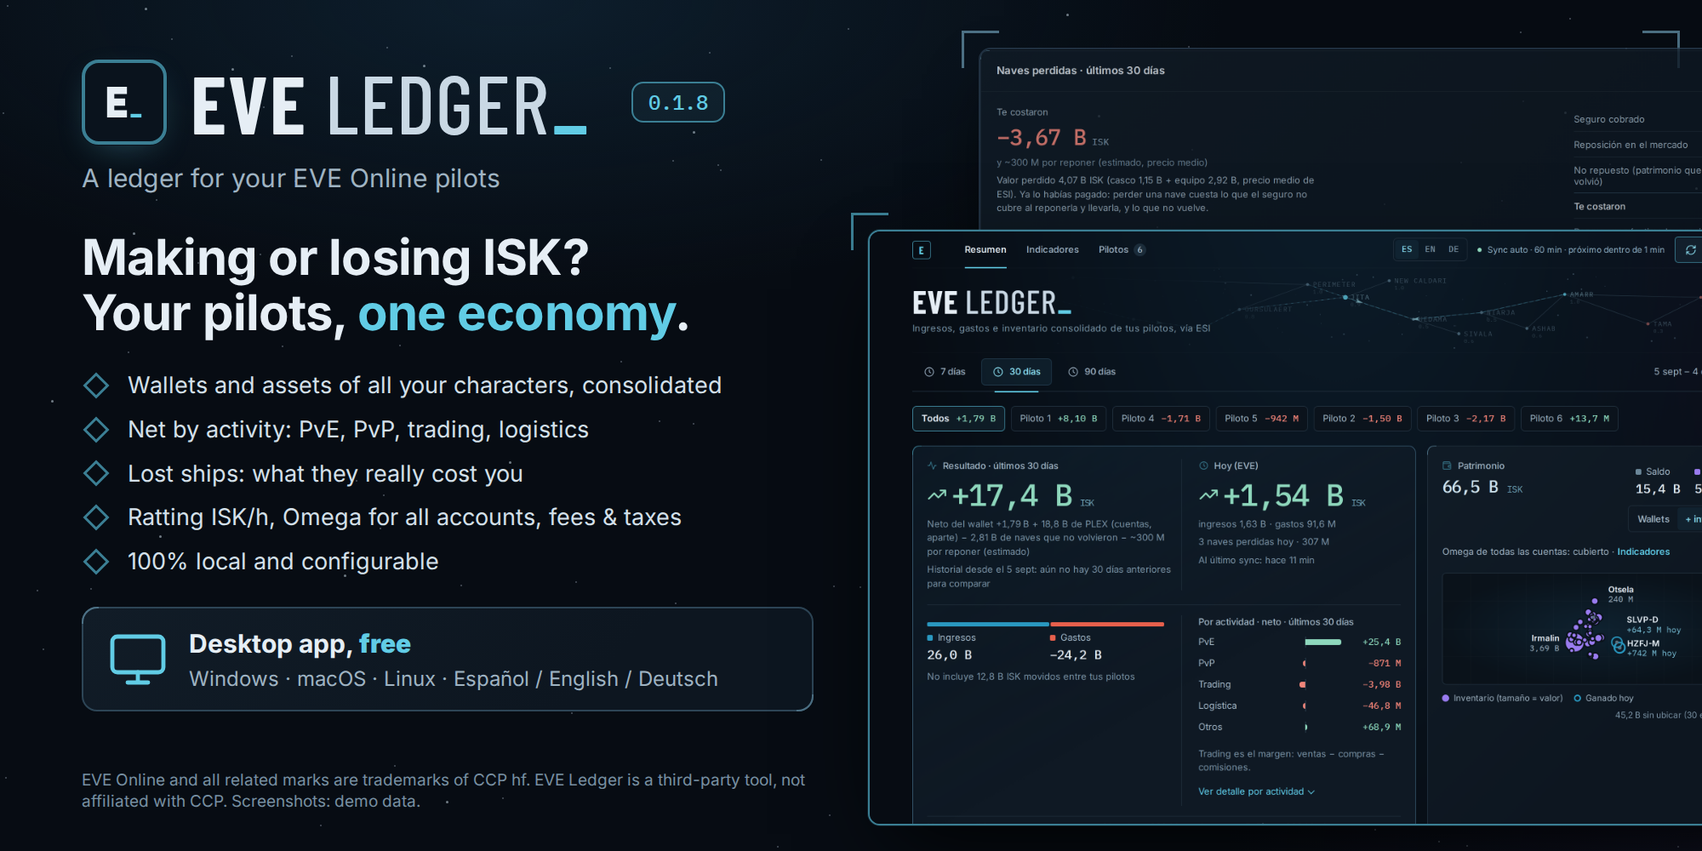
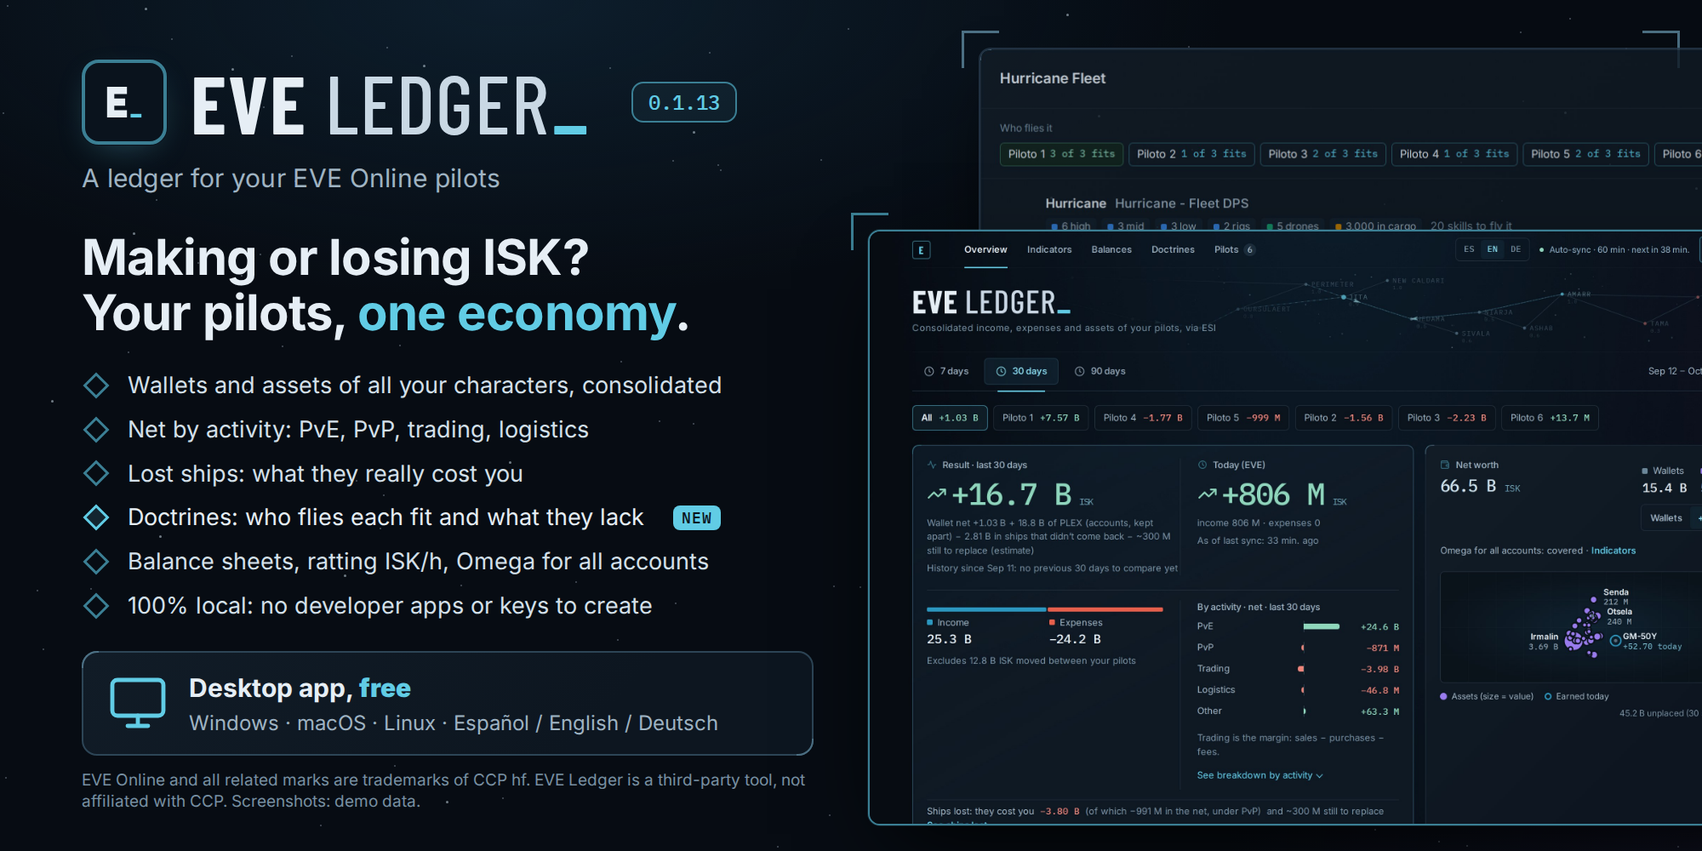
Brochure nuevo para la comunidad: portada, Doctrinas e Indicadores y Balances
Tres piezas de 2000 × 1000 px en español e inglés con capturas de la 0.1.13
(datos de demostración): la portada actualizada con Doctrinas y Balances, una
pieza de Doctrinas con la columna de iconos de «Para volarlo ya» y otra de
Indicadores y Balances. Plantilla con ?slide=, capturas en JPEG y README con
cómo regenerarlo.

Claude-Session: https://claude.ai/code/session_01M8WtF2MrXeJVUAxf2xqCAQ

diff --git a/docs/brochure/brochure.html b/docs/brochure/brochure.html
@@ -2,7 +2,7 @@
 <html lang="es">
 <head>
 <meta charset="utf-8" />
-<title>EVE Ledger · brochure</title>
+<title>EVE Ledger brochure</title>
 <style>
 @font-face { font-family: 'Inter'; src: url('../../apps/web/node_modules/@fontsource-variable/inter/files/inter-latin-wght-normal.woff2') format('woff2'); font-weight: 100 900; }
 @font-face { font-family: 'Barlow Condensed'; src: url('../../apps/web/node_modules/@fontsource/barlow-condensed/files/barlow-condensed-latin-700-normal.woff2') format('woff2'); font-weight: 700; }
@@ -52,18 +52,25 @@ li::before { content: ''; flex: none; width: 16px; height: 16px; border: 3px sol
 .box .t2 { font: 500 27px var(--mono); color: var(--cyan); margin-top: 2px; }
 .box .t3 { font-size: 24px; color: var(--text-secondary); margin-top: 4px; }
 .foot { position: absolute; left: 96px; width: 880px; bottom: 26px; font-size: 19px; line-height: 1.35; color: var(--text-muted); }
-/* capturas */
+/* capturas: cada pieza coloca las suyas (back = detrás, front = delante) */
 .shots { position: absolute; left: 1000px; top: 0; right: 0; bottom: 0; }
 .shot { position: absolute; border: 2px solid #2d4556; border-radius: 14px; overflow: hidden; background: var(--panel); box-shadow: 0 30px 80px -30px #000; }
 .shot img { display: block; width: 100%; }
-.shot.back { left: 150px; top: 56px; width: 1000px; height: 600px; opacity: .8; border-color: #26384a; }
-.shot.back img { width: 1000px; }
+.shot.back { left: 150px; top: 56px; width: 1000px; height: 600px; opacity: .82; border-color: #26384a; }
 .shot.front { left: 20px; top: 270px; width: 1100px; height: 700px; border-color: #3b7f94; box-shadow: 0 0 0 1px #61cce522, 0 40px 100px -30px #000; }
-.shot.front img { width: 1100px; }
 .bracket { position: absolute; width: 44px; height: 44px; border: 3px solid var(--corner); }
 .bracket.tl { left: 130px; top: 36px; border-right: 0; border-bottom: 0; }
 .bracket.tr { right: 26px; top: 36px; border-left: 0; border-bottom: 0; }
 .bracket.fl { left: 0; top: 250px; border-right: 0; border-bottom: 0; border-color: var(--cyan-dim); }
+/* Doctrinas: la franja «Con qué se paga» arriba y la doctrina grande delante */
+body[data-slide='doctrinas'] .shot.back { left: 120px; top: 64px; width: 860px; height: auto; opacity: .9; }
+body[data-slide='doctrinas'] .shot.front { left: 20px; top: 250px; width: 960px; height: 730px; }
+body[data-slide='doctrinas'] .bracket.fl { top: 230px; }
+body[data-slide='doctrinas'] .bracket.tl { left: 100px; top: 44px; }
+/* La novedad: chip junto a la viñeta */
+.new { margin-left: 14px; font: 600 18px var(--mono); letter-spacing: .06em; color: #0a131d; background: var(--cyan); border-radius: 8px; padding: 3px 10px; }
+li.hl { color: var(--text); }
+li.hl::before { border-color: var(--cyan); background: #61cce522; }
 </style>
 </head>
 <body>
@@ -87,39 +94,83 @@ li::before { content: ''; flex: none; width: 16px; height: 16px; border: 3px sol
 </div>
 <div class="shots">
   <i class="bracket tl"></i><i class="bracket tr"></i>
-  <div class="shot back"><img src="shot-losses.png" /></div>
+  <div class="shot back"><img data-shot="back" alt="" /></div>
   <i class="bracket fl"></i>
-  <div class="shot front"><img src="shot-dashboard.png" /></div>
+  <div class="shot front"><img data-shot="front" alt="" /></div>
 </div>
 <p class="foot" data-t="foot"></p>
 <script>
+// Tres piezas: ?slide=portada|doctrinas|indicadores, ?lang=es|en y ?v= (versión)
+const NEW = { es: 'NUEVO', en: 'NEW' };
 const T = {
+  portada: {
+    shots: ['doctrine', 'dashboard'],
+    es: {
+      tagline: 'Contabilidad de tus pilotos de EVE Online',
+      headline: '¿Ganas o pierdes ISK?<br>Tus pilotos, <em>una economía</em>.',
+      bullets: ['Wallets e inventario de todos tus personajes, consolidados', 'Neto por actividad: PvE, PvP, trading y logística', 'Naves perdidas: lo que te costaron de verdad', ['Doctrinas: quién vuela cada fit y cuánto le falta'], 'Balances, ISK/h de ratting y Omega de todas las cuentas', '100 % local: sin crear apps en developers ni claves'],
+    },
+    en: {
+      tagline: 'A ledger for your EVE Online pilots',
+      headline: 'Making or losing ISK?<br>Your pilots, <em>one economy</em>.',
+      bullets: ['Wallets and assets of all your characters, consolidated', 'Net by activity: PvE, PvP, trading, logistics', 'Lost ships: what they really cost you', ['Doctrines: who flies each fit and what they lack'], 'Balance sheets, ratting ISK/h, Omega for all accounts', '100% local: no developer apps or keys to create'],
+    },
+  },
+  doctrinas: {
+    shots: ['funds', 'doctrine'],
+    es: {
+      tagline: 'Doctrinas · nuevo en EVE Ledger',
+      headline: '¿Quién puede volar<br>la <em>doctrina</em>?',
+      bullets: ['Pega el fit EFT y el plan de skills de EVEMon', 'Quién lo vuela ya y cuánto entrenamiento falta', 'Omega o Alfa, según las skills del fit', 'Coste en Jita e inyectores para volarlo ya', 'ISK del wallet, con y sin el Omega reservado'],
+    },
+    en: {
+      tagline: 'Doctrines · new in EVE Ledger',
+      headline: 'Who can fly<br>the <em>doctrine</em>?',
+      bullets: ['Paste the EFT fit and the EVEMon skill plan', 'Who can fly it now and how much training is left', 'Omega or Alpha, from the fit’s skills', 'Jita cost and injectors to fly it now', 'Wallet ISK, with and without Omega set aside'],
+    },
+  },
+  indicadores: {
+    shots: ['balances', 'indicators'],
+    es: {
+      tagline: 'Indicadores y Balances',
+      headline: 'Tu economía,<br><em>como un libro</em>.',
+      bullets: ['ISK/h de ratting por piloto y por sistema', 'Omega de todas las cuentas: ¿tu ritmo lo paga?', 'Balance general y estado de resultados', 'Comisiones, impuestos y lo que cuestan tus pérdidas', 'Tortas y tablas que se ordenan'],
+    },
+    en: {
+      tagline: 'Indicators and Balances',
+      headline: 'Your economy,<br><em>as a ledger</em>.',
+      bullets: ['Ratting ISK/h by pilot and by system', 'Omega for all accounts: does your pace pay for it?', 'Balance sheet and income statement', 'Fees, taxes and what your losses cost', 'Pie charts and sortable tables'],
+    },
+  },
+};
+const COMMON = {
   es: {
-    tagline: 'Contabilidad de tus pilotos de EVE Online',
-    headline: '¿Ganas o pierdes ISK?<br>Tus pilotos, <em>una economía</em>.',
-    bullets: ['Wallets e inventario de todos tus personajes, consolidados', 'Neto por actividad: PvE, PvP, trading y logística', 'Naves perdidas: lo que te costaron de verdad', 'ISK/h de ratting, Omega de todas las cuentas y comisiones', '100 % local y parametrizable'],
     box1: 'App de escritorio, <b>gratis</b>',
     box3: 'Windows · macOS · Linux · Español / English / Deutsch',
     foot: 'EVE Online y todo lo relacionado son marcas de CCP hf. EVE Ledger es una herramienta de terceros, no afiliada a CCP. Capturas con datos de demostración.',
   },
   en: {
-    tagline: 'A ledger for your EVE Online pilots',
-    headline: 'Making or losing ISK?<br>Your pilots, <em>one economy</em>.',
-    bullets: ['Wallets and assets of all your characters, consolidated', 'Net by activity: PvE, PvP, trading, logistics', 'Lost ships: what they really cost you', 'Ratting ISK/h, Omega for all accounts, fees & taxes', '100% local and configurable'],
     box1: 'Desktop app, <b>free</b>',
     box3: 'Windows · macOS · Linux · Español / English / Deutsch',
     foot: 'EVE Online and all related marks are trademarks of CCP hf. EVE Ledger is a third-party tool, not affiliated with CCP. Screenshots: demo data.',
   },
 };
 const q = new URLSearchParams(location.search);
-const t = T[q.get('lang') || 'es'];
-document.documentElement.lang = q.get('lang') || 'es';
-document.querySelector('[data-version]').textContent = q.get('v') || '0.1.8';
+const lang = q.get('lang') === 'en' ? 'en' : 'es';
+const slide = T[q.get('slide')] ? q.get('slide') : 'portada';
+const t = { ...T[slide][lang], ...COMMON[lang] };
+document.documentElement.lang = lang;
+document.body.dataset.slide = slide;
+document.querySelector('[data-version]').textContent = q.get('v') || '0.1.13';
 for (const el of document.querySelectorAll('[data-t]')) {
   const k = el.dataset.t;
-  if (k === 'bullets') el.innerHTML = t.bullets.map((b) => '<li>' + b + '</li>').join('');
+  // Una viñeta entre corchetes es la novedad: chip «NUEVO»
+  if (k === 'bullets') el.innerHTML = t.bullets.map((b) => (Array.isArray(b) ? '<li class="hl">' + b[0] + '<span class="new">' + NEW[lang] + '</span></li>' : '<li>' + b + '</li>')).join('');
   else el.innerHTML = t[k];
 }
+const [back, front] = T[slide].shots;
+document.querySelector('[data-shot=back]').src = 'shot-' + back + '-' + lang + '.jpg';
+document.querySelector('[data-shot=front]').src = 'shot-' + front + '-' + lang + '.jpg';
 // Estrellas deterministas
 let s = 7; const rnd = () => (s = (s * 16807) % 2147483647) / 2147483647;
 const stars = document.getElementById('stars');

diff --git a/CLAUDE.md b/CLAUDE.md
@@ -7,7 +7,7 @@ Proyecto personal, corre solo en localhost. Responder siempre en español neutro
 - `apps/api`: Bun + Elysia + Drizzle + SQLite (`bun:sqlite`)
 - `apps/web`: Astro (SSR con `@astrojs/node`), lee la API vía `API_URL`. Tema oscuro tipo HUD en `src/styles/theme.css`. Franja de marca compacta en `Base.astro` (118 px, 92 px en móvil): «EVE LEDGER_» sobre el mapa estelar animado (`src/components/StarMap.astro`, decorativo); no debe empujar el neto fuera de la primera pantalla. Fuentes autoalojadas con `@fontsource` (Inter para la interfaz, IBM Plex Mono solo para cifras y datos, Barlow Condensed solo para el logotipo). Colores de datos: ingresos `#2a98c0`, gastos `#e8604c`, inventario `#9a7cf0`, validados sobre el fondo de los paneles; no reutilizarlos como colores de interfaz.
 - Prompt autocontenido con el design system (tokens, tipografía, componentes, cifras, estados, voz y prohibiciones) para diseñar pantallas nuevas fuera del repo: `docs/design-system-prompt.md` (en inglés, `docs/design-system-prompt.en.md`); actualizarlo si cambian `theme.css` o estas reglas.
-- Contexto de producto para el diseño en `PRODUCT.md` (generado con `/impeccable init`: usuario, uso mientras juega y en revisión, «¿gano o pierdo ISK?» como pregunta principal, pilotos PvE + PvP). Live mode configurado en `.impeccable/live/config.json`.
+- Brochure para la comunidad en `docs/brochure` (tres piezas ES/EN: portada, Doctrinas, Indicadores y Balances; cómo regenerarlo en su README). Contexto de producto para el diseño en `PRODUCT.md` (generado con `/impeccable init`: usuario, uso mientras juega y en revisión, «¿gano o pierdo ISK?» como pregunta principal, pilotos PvE + PvP). Live mode configurado en `.impeccable/live/config.json`.
 - Diseño: skill **impeccable** instalado en `.claude/skills/impeccable` (versión y origen en `UPSTREAM`; agentes en `.claude/agents/`). Sin sus hooks automáticos: tras cambiar UI, correr `.claude/skills/impeccable/scripts/impeccable detect --json <archivos>`. Reglas adoptadas: sin eyebrows sobre títulos ni números de sección, el cian solo para acciones/estado, el signo del neto en verde/rojo (`--positive`/`--critical`) y avisos en ámbar (`--warning`). Movimiento solo en dos sitios: el pulso de los sistemas con ganancias hoy en el mapa «tu New Eden» (el único anillo pulsante de la interfaz: nada decorativo debe imitar un dato) y las rutas y couriers del mapa estelar de la franja de marca, sin anillo, sin nombres brillantes y con el cursor «_» fijo (todo desactivado con `prefers-reduced-motion`). Trampa de Astro: los estilos con ámbito de una página no llegan al `<svg>` de `<Icon class="…">` (ni a ningún componente hijo); esas reglas van con `:global(.clase)`. Igual con `footer.shell`: `.shell` pone `margin: 0 auto` y anula el `margin-top` de un selector `footer` a secas. Objetivos táctiles de 40 px en móvil (selector de idioma, marca, pestañas, chips, «Gestionar pilotos», «Ver como tabla») y gutter de 16 px. El vistazo es la pareja «Neto del período» + «Hoy (EVE)» (contenedor `.hero-stat` con container query: en 2 columnas desde 520 px) con el neto al ~60 % y Patrimonio + mapa al ~40 %. En móvil el aviso «Sync automático desactivado» pasa a chip corto («Sync manual») y Sincronizar queda solo con icono mientras dure. Suelo de texto: 13 px para notas, metadatos y sub-textos, 12 px para etiquetas de tabla, ejes y pie; el eje del gráfico usa una sola unidad y los mismos decimales. En móvil la tabla de pilotos se sustituye por tarjetas (`.pilot-cards`, ≤600 px) y la cabecera cabe en dos filas (marca + idioma + estado + Sincronizar, y las secciones). La tarjeta de Neto lleva el desglose por actividad (PvE, PvP, Trading, Logística, Otros: orden fijo, barras en verde/rojo como su cifra) junto a Ingresos/Gastos, con un enlace a `#por-actividad`, cuyo panel es solo el detalle por tipo de movimiento (sin repetir netos), y «Hoy» sin movimientos se apaga (28 px, gris). Los contenedores con scroll llevan `role="group"` y `aria-label`. Las secciones son `h2` (el `h1` es solo para lectores de pantalla). Una clase `sr-only` (position absolute) dentro de un contenedor con scroll se escapa de él salvo que su ancestro cercano sea `position: relative`. Accesibilidad: enlace «Saltar al contenido» en `Base.astro`; el gráfico diario es una lista (`role=list/listitem`) con una sola parada de Tab (roving tabindex que entra por el último día con movimientos; ← → Inicio Fin RePág AvPág), `aria-label` y tooltip con cifras abreviadas (las completas están en «Ver como tabla»), un punto de neto por día y etiquetas del eje que se omiten según el ancho disponible.
 - `apps/desktop`: app de escritorio (Tauri 2) para compartir el ledger personal (por ejemplo, con la corp); guía de usuario en `apps/desktop/INSTALAR.md` y de compilación en `apps/desktop/README.md`. Ver «Escritorio» en las decisiones.
 - Un solo usuario, sin multitenant ni login propio. Si crece: migrar a PostgreSQL con Drizzle.
@@ -29,7 +29,7 @@ Proyecto personal, corre solo en localhost. Responder siempre en español neutro
 - Mapa «tu New Eden» (`GET /map`, `src/services/geo.ts`): sistemas con inventario (tamaño = valor) y sistemas donde se ganó ISK hoy (journal con `context_id_type = system_id`). Estación → sistema → coordenadas vía `/universe/stations` y `/universe/systems` (públicos), en caché en `station_systems` y `systems`; se resuelven en cada sync (tope 150 llamadas). Las citadelas quedan «sin ubicar».
 - «Hoy» = desde las 00:00 EVE (UTC). La comparación con el período anterior solo se muestra si el historial lo cubre entero; los días anteriores al primer sync se muestran como «sin historial», no como cero.
 - Datos «desactualizados» cuando el último sync supera 2× el intervalo (2 h si el cron está apagado). El dashboard se recarga solo tras cada sync automático (`/status.json` en la web), pero solo si no tira la lectura (scroll arriba y ningún `<details>` abierto); si no, aparece el aviso «Hay datos nuevos · Actualizar». La frescura («Al último sync: hace 11 min», en ámbar si está vieja) va pegada a «Hoy», y bajo el filtro de pilotos una línea dice cuáles están sin sync reciente y por qué, con enlace a Pilotos.
-- Vinculación: `/auth/callback` no pinta HTML; redirige a `${WEB_URL}/pilotos?linked=ID` o `?error=denied|state|sso` (con `AUTH_DONE_PAGE=1`, que pone la app de escritorio, a `${WEB_URL}/vinculado?…`: página suelta, sin el dashboard, «PILOTO VINCULADO · Puedes cerrar esta página» o el error, en el idioma del navegador (`getRequestLang`); en éxito intenta `window.close()`, que el navegador solo permite si la pestaña la abrió un script). `GET /characters` redirige a esa página si el cliente pide `text/html` y devuelve JSON (con `missingScopes` y `lastError`) al resto. La web tiene layout común (`src/layouts/Base.astro`) con secciones Resumen / Indicadores / Balances / Doctrinas / Pilotos (en móvil sin el contador de pilotos y con 7 px de aire, para que quepan las cinco a 390 px; si no caben, la fila se desliza); plazas de piloto según `PILOT_SLOTS` (5).
+- Vinculación: `/auth/callback` no pinta HTML; redirige a `${WEB_URL}/pilotos?linked=ID` o `?error=denied|state|sso` (con `AUTH_DONE_PAGE=1`, que pone la app de escritorio, a `${WEB_URL}/vinculado?…`: página suelta, sin el dashboard, «PILOTO VINCULADO · Puedes cerrar esta página» o el error, en el idioma del navegador (`getRequestLang`); en éxito intenta `window.close()`, que el navegador solo permite si la pestaña la abrió un script). `GET /characters` redirige a esa página si el cliente pide `text/html` y devuelve JSON (con `missingScopes` y `lastError`) al resto. La web tiene layout común (`src/layouts/Base.astro`) con secciones Resumen / Indicadores / Balances / Doctrinas / Pilotos (por debajo de 1280 px van en una segunda fila de la cabecera, porque con cinco secciones el estado del sync y Sincronizar se salían por la derecha entre 751 y ~1180 px; en móvil sin el contador de pilotos y con 7 px de aire, para que quepan las cinco a 390 px; si no caben, la fila se desliza); las cifras abreviadas de ISK llevan espacio duro antes de la unidad (`isk()`: «6,41 B» no se parte); plazas de piloto según `PILOT_SLOTS` (5).
 - `/summary` excluye las transferencias internas (ambas partes son personajes vinculados **y distintos**: en una compra de mercado, `market_escrow`, ESI pone al propio comprador como primera y segunda parte, y es un gasto; bug que solo salió con datos reales): en el consolidado se anulan. Excepción: el `market_escrow` de una compra a **otro de tus pilotos** (su transacción enlazada por `journal_ref_id` tiene ese piloto como `client_id` y el mismo importe) también es interno, y la transferencia se deduplica por `transaction_id`, que comparten los dos lados (antes una compraventa entre tus pilotos daba −X en el consolidado y −2X en el comprador; índice `tx_char_journal_idx`, migración 0011). `internalReceived`/`internalSent` dan lo movido en los dos sentidos (la vista de un piloto dice «recibió X y envió Y»). El saldo por personaje es el `balance` del último movimiento del journal. Los ingresos, gastos y neto de `characters` excluyen también esas transferencias, así que **la suma de los pilotos es exactamente el consolidado** (`totals`): la tabla de pilotos del resumen («Pilotos · últimos N días») lo muestra con una fila Total (en móvil, una tarjeta Total; ingresos, gastos y neto van primero en cada tarjeta) y una nota que lo dice; la fila Total es siempre el consolidado, también en la vista de un piloto. **El neto de un piloto es lo que cambió su wallet** (decisión del usuario, 0.1.7): `characters[].net` = ingresos − gastos + recibido − enviado a tus otros pilotos (`internalReceived`/`internalSent`, deducidos por transferencia (`journal_id`): basta uno de los dos lados, el signo dice quién paga, así cuadran también los movimientos de antes de la migración 0007); en la suma de todos se anula, así que el Total sigue siendo el consolidado. La tabla es la conciliación del wallet: **Saldo anterior** (`openingBalance`: balance del último movimiento antes del período; si el historial empieza dentro, el del primer movimiento menos ese movimiento, `openingPartial` con `openingAt`) | Ingresos · Gastos · **Entre tus pilotos** (sin verde/rojo) · Neto | Saldo · Inventario · Último sync, con la nota «Saldo anterior + Neto = Saldo» y, si en algún piloto no cuadra (≥ 1 ISK: movimientos que ESI ya no daba al primer sync), cuánto. Verificado con el export real: cuadra al céntimo en los 6 pilotos y en el Total. En la vista de un piloto, el neto titular, «Hoy», el período anterior y el neto de cada día del gráfico incluyen lo movido con tus otros pilotos (las barras y las actividades siguen siendo juego; la línea «Incluye lo movido con tus otros pilotos: recibió X y envió Y» lo dice); los chips de la franja muestran ese mismo neto. La línea «−X de este neto vienen de datos viejos» sigue sin las transferencias.
 - Actividades (`apps/api/src/lib/activities.ts`): cada `ref_type` se clasifica como PvE (recompensas, ESS, misiones y, por decisión del usuario, **escalaciones vendidas** —donación entrante de alguien que no es tu piloto por un múltiplo de 50 M— y **loot vendido** —`contract_price_payment_corp`, un contrato de intercambio que acepta una corporación: el buyback—; `refKindOf()` les da los tipos virtuales `escalation_sale` y `loot_buyback` para el detalle; las ventas de mercado de ítems no comprados no cuentan como loot), PvP (seguros, kill rights, guerras), trading (mercado, escrow, comisiones, impuestos, contratos de compraventa), **logística** (recompensas, reembolsos y garantías de courier, y la comisión `contract_brokers_fee` de un contrato que la tabla `contracts` conoce como courier; decisión del usuario) u otros (lo que no está en ninguna lista). Orden fijo: PvE, PvP, Trading, Logística, Otros, y **PLEX / cuentas** (`accounts`, decisión del usuario tras la decimosexta crítica: comprar o vender PLEX en el mercado, `market_transaction`/`market_escrow` cuya transacción es del tipo 44992, es el coste de las cuentas/Omega, no trading). `activityOf(refType, contextId)`; el detalle por `ref_type` agrupa también por actividad. `/summary` devuelve `byActivity` con brutos y detalle por `ref_type`.
 - **Resultado de juego** (tarjeta de Neto): neto del wallet − PLEX / cuentas (aparte) − naves que no volvieron − por reponer; la frase lo desglosa («Neto del wallet −13,4 B + 18,8 B de PLEX (cuentas, aparte) − 2,20 B de naves que no volvieron − ~424 M por reponer»). Las barras de actividades de la tarjeta no incluyen PLEX / cuentas: va en su propia línea al pie («PLEX / cuentas: −18,8 B · 3840 PLEX comprados · Omega en Indicadores»); el panel «Por actividad» sí la detalla. En el gráfico diario la parte de la barra que es PLEX va rayada (leyenda «PLEX (cuentas)», tooltip y `aria-label`). El ritmo del Omega (`dailyNetRate`) no cuenta el PLEX. Si un tipo de movimiento es ≥ 60 % de una actividad, su `title` lo nombra («sobre todo Donaciones»).

diff --git a/docs/brochure/README.md b/docs/brochure/README.md
@@ -1,5 +1,13 @@
-# Brochure para redes sociales
+# Brochure para la comunidad
 
-`eve-ledger-brochure-es.png` y `eve-ledger-brochure-en.png` (2000 × 1000 px) salen de `brochure.html`, que sigue el design system del dashboard (`docs/design-system-prompt.md`) y monta dos capturas (`shot-dashboard.png`, `shot-losses.png`) tomadas con datos de demostración (el export real anonimizado: «Piloto 1…6», fechas desplazadas para que «Hoy» tenga movimientos).
+Tres piezas de 2000 × 1000 px en español e inglés, para redes sociales y foros:
 
-Para regenerarlo (fuentes de `apps/web/node_modules`, hace falta `bun install` en `apps/web`): `node render.cjs` con Playwright instalado; `brochure.html?lang=en&v=0.2.0` cambia idioma y versión. Para capturas nuevas, levanta la API y la web con datos de demostración y repite las capturas a 1320 px de ancho y escala 2.
+| Pieza | Archivos | Capturas |
+|---|---|---|
+| Portada: qué es EVE Ledger | `eve-ledger-brochure-es.png`, `eve-ledger-brochure-en.png` | resumen (delante) y una doctrina (detrás) |
+| Doctrinas: quién vuela qué y cuánto cuesta | `eve-ledger-doctrinas-es.png`, `eve-ledger-doctrinas-en.png` | la doctrina (delante) y «Con qué se paga» (detrás) |
+| Indicadores y Balances | `eve-ledger-indicadores-es.png`, `eve-ledger-indicadores-en.png` | indicadores (delante) y balances (detrás) |
+
+Salen de `brochure.html` (`?slide=portada|doctrinas|indicadores&lang=es|en&v=0.1.13`), que sigue el design system del dashboard (`docs/design-system-prompt.md`), con las capturas `shot-<pantalla>-<idioma>.jpg`. Datos de demostración: el export real anonimizado («Piloto 1…6») con las fechas desplazadas para que «Hoy» tenga movimientos, y una doctrina de ejemplo (Hurricane, Scimitar y Rifter) con skills sembradas y ESI simulado (precios de Jita incluidos).
+
+Para regenerarlo (fuentes de `apps/web/node_modules`, hace falta `bun install` en `apps/web`): `node render.cjs` con Playwright instalado. Capturas nuevas: levanta la API y la web con datos de demostración y captura a 1320 px de ancho y escala 2 en JPEG (calidad 88); la doctrina, a 1040 px de ancho para que la tabla entera (con los iconos de «Para volarlo ya») quepa en el hueco de la pieza.
